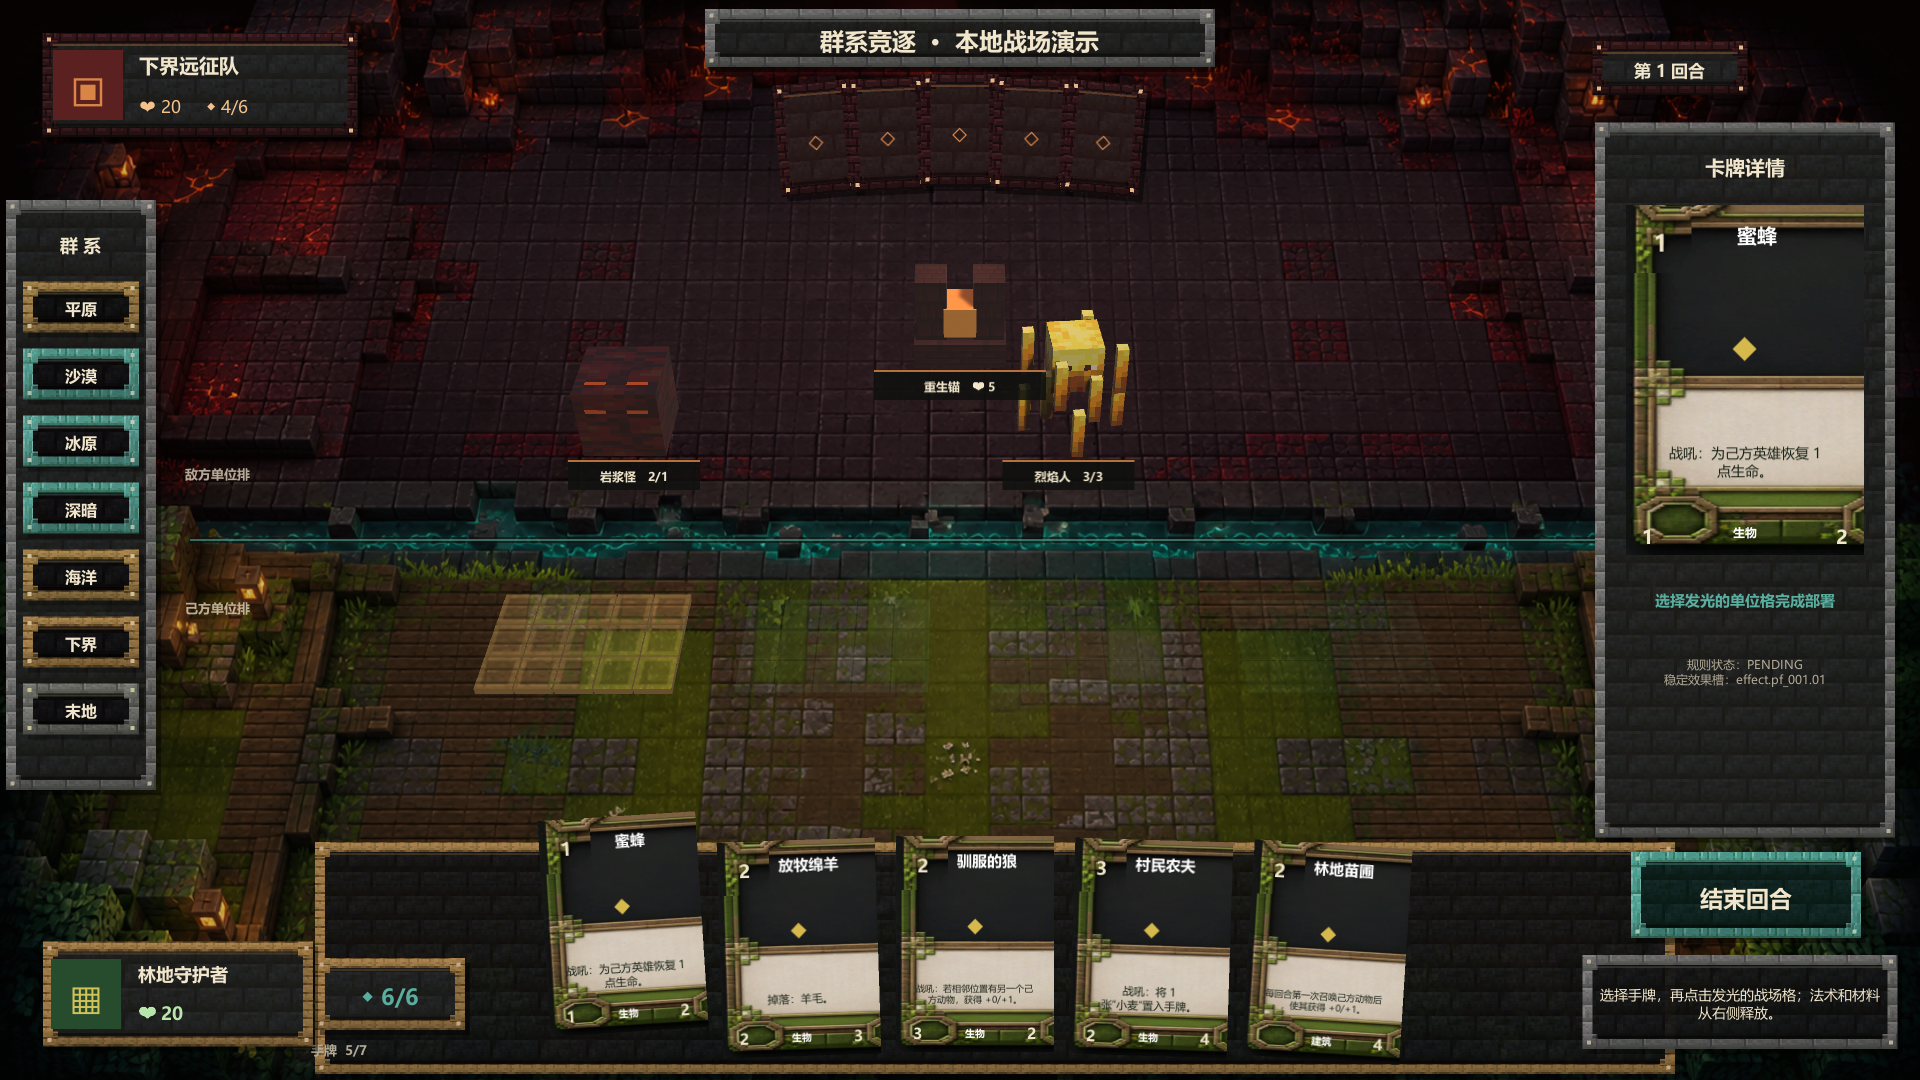
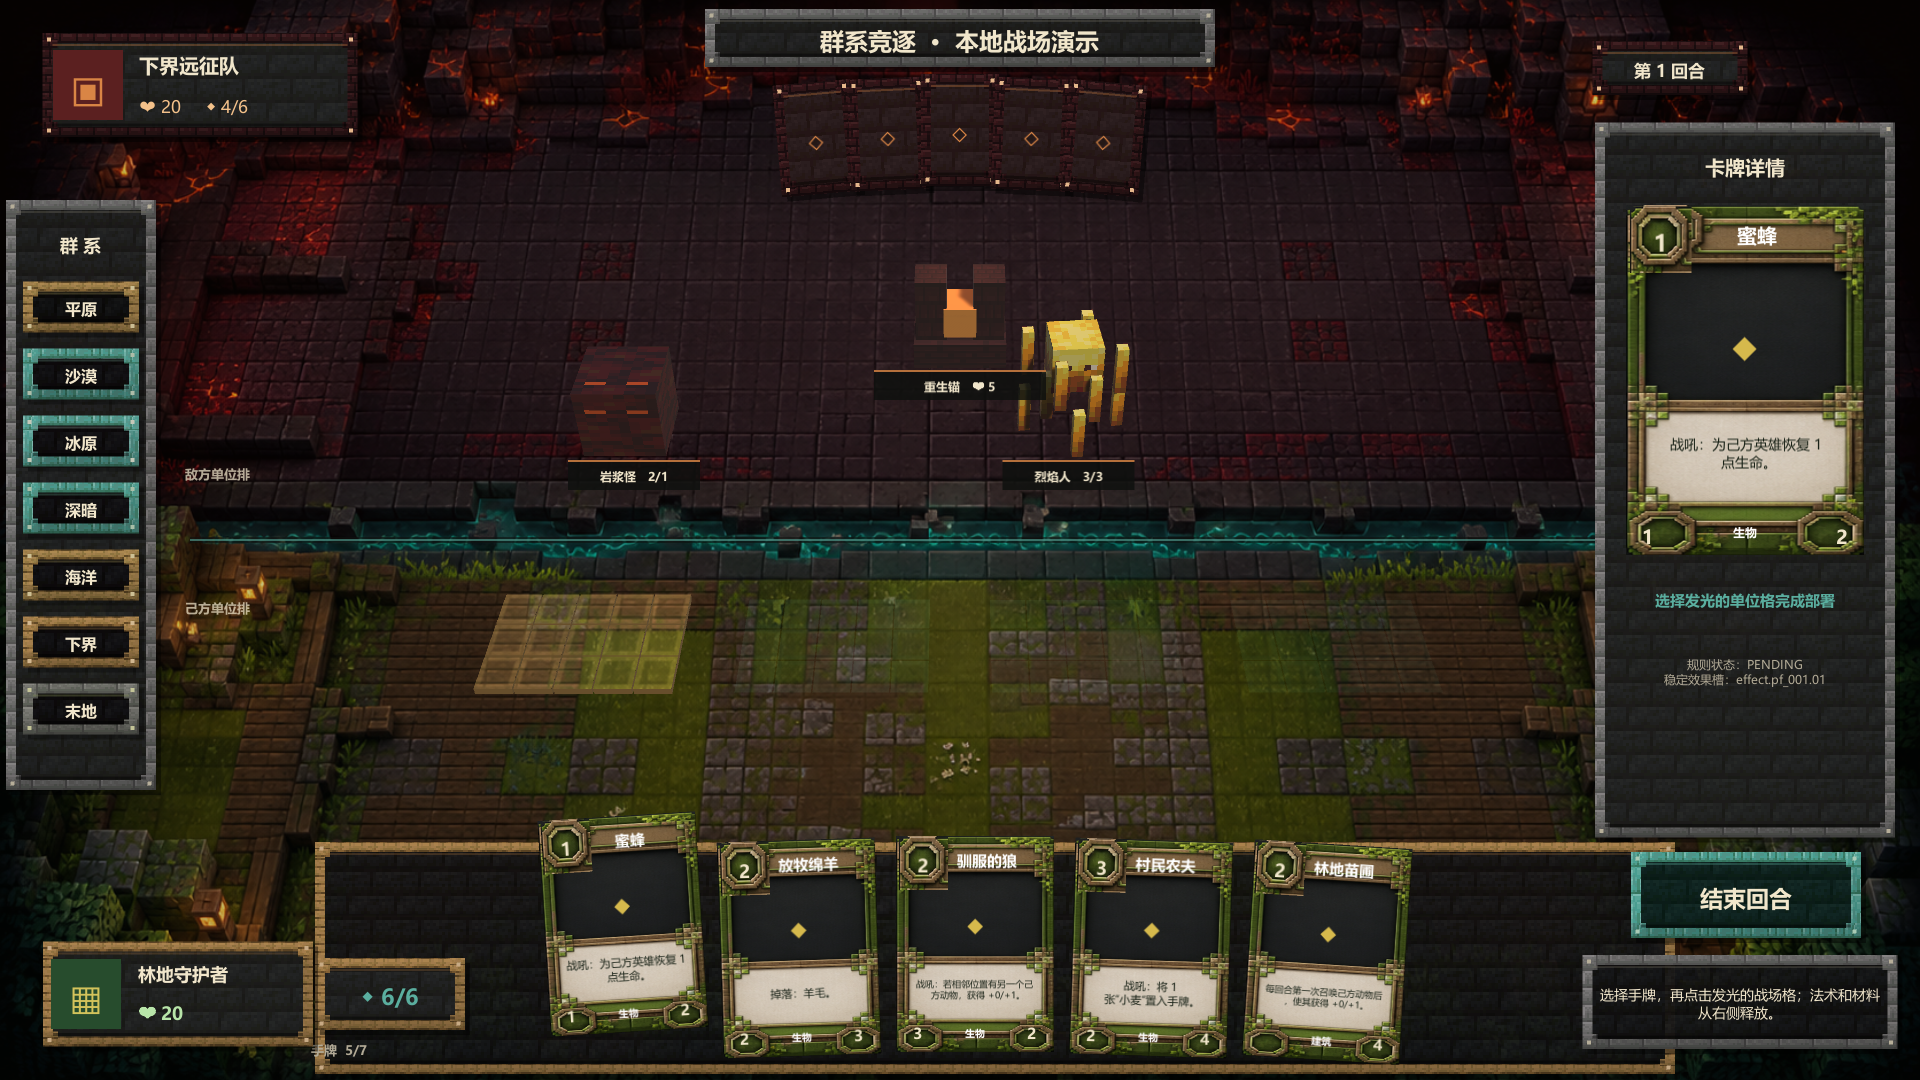
fix: center card rules in study frame

Changed region(s): [[0.2812, 0.7333, 0.75, 1.0], [0.8438, 0.1833, 0.9688, 0.5194]]

diff --git a/client-unity/Assets/Game/Demo/Runtime/DemoSceneController.cs b/client-unity/Assets/Game/Demo/Runtime/DemoSceneController.cs
@@ -567,9 +567,10 @@ namespace BiomeRivals.Demo
             }
 
             var rulesHeight = compact ? h * 0.31f : h * 0.29f;
-            var rulesY = -h * 0.235f;
+            var rulesY = usesStudyFrame ? -h * 0.21f : -h * 0.235f;
             if (!usesStudyFrame) CreatePanel(root, "RulesSurface", new Vector2(0, rulesY), new Vector2(w - 18, rulesHeight), theme.RulesSurface).raycastTarget = false;
-            var rules = CreateText(root, "Rules", new Vector2(0, rulesY + 2), new Vector2(w - (usesStudyFrame ? 38 : 30), rulesHeight - (usesStudyFrame ? 15 : 8)), text.rulesText, compact ? 11 : 14, theme.BodyText, TextAnchor.MiddleCenter, FontStyle.Normal);
+            var rules = CreateText(root, "Rules", new Vector2(0, rulesY), new Vector2(w - (usesStudyFrame ? 38 : 30), rulesHeight - (usesStudyFrame ? 15 : 8)), text.rulesText, compact ? 11 : 14, theme.BodyText, TextAnchor.MiddleCenter, FontStyle.Normal);
+            rules.alignByGeometry = usesStudyFrame;
             rules.resizeTextForBestFit = compact;
             rules.resizeTextMinSize = 9;
             rules.resizeTextMaxSize = compact ? 11 : 14;

diff --git a/client-unity/Assets/Game/Demo/Tests/EditMode/DemoLocalMatchTests.cs b/client-unity/Assets/Game/Demo/Tests/EditMode/DemoLocalMatchTests.cs
@@ -104,6 +104,11 @@ namespace BiomeRivals.Demo.Tests
                 Assert.That(themedCard.transform.Find("TitleBand"), Is.Null);
                 Assert.That(themedCard.transform.Find("CostSocket"), Is.Null);
                 Assert.That(themedCard.transform.Find("CostSocketFrame").GetComponent<UnityEngine.UI.Image>().sprite.name, Is.EqualTo("CardCostSocket_plains_forest"));
+                var themedRules = themedCard.transform.Find("Rules").GetComponent<UnityEngine.UI.Text>();
+                Assert.That(themedRules.alignment, Is.EqualTo(UnityEngine.TextAnchor.MiddleCenter));
+                Assert.That(themedRules.alignByGeometry, Is.True);
+                Assert.That(themedRules.rectTransform.anchoredPosition.x, Is.Zero.Within(0.001f));
+                Assert.That(themedRules.rectTransform.anchoredPosition.y, Is.EqualTo(-themedCard.GetComponent<RectTransform>().sizeDelta.y * 0.21f).Within(0.01f));
                 var frameMappings = new[,]
                 {
                     { "plains_forest", "pf" },
